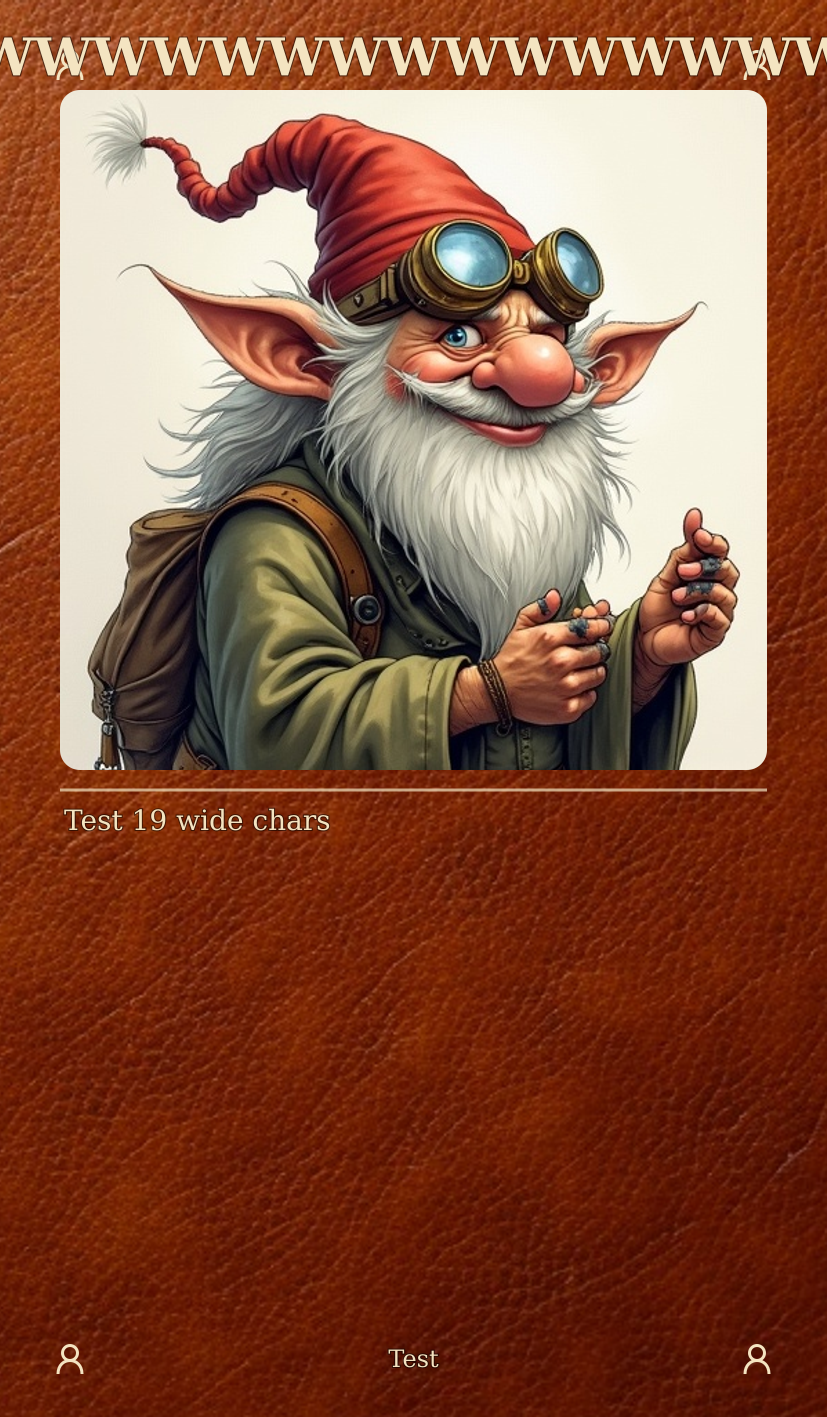
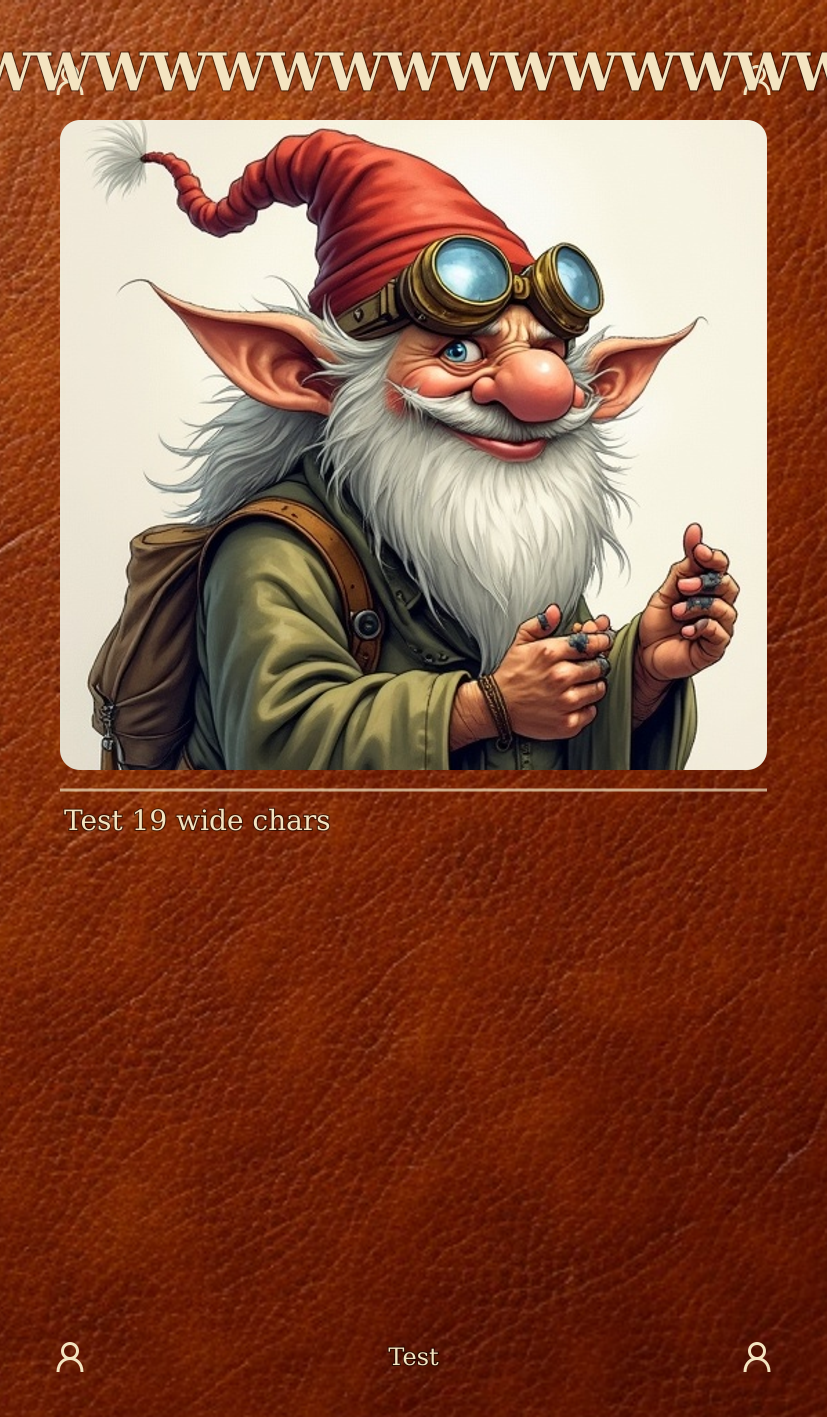
Refactor layout with explicit coordinate system
Added clear layout specification at top of file with:
- All dimensions and positions as named constants
- Explicit safe margins (B=40px on all four sides)
- Documented vertical regions: header, portrait, text, footer
- Derived positions calculated from these constants

Layout regions:
- Header: y ∈ [40, 120] - 80px for title + icons
- Portrait: y ∈ [120, 770] - 650px for character image
- Text: y ∈ [770, 1337] - description area
- Footer: y ∈ [1337, 1377] - 40px for location + icons

All positioning code now uses these constants instead of
scattered magic numbers, making the layout easier to
understand and modify.

diff --git a/packages/card-generator/scripts/generate-all-variants.js b/packages/card-generator/scripts/generate-all-variants.js
@@ -1,15 +1,81 @@
 #!/usr/bin/env node
 /**
  * Generate layout variants for comparison
- * NEW DEFAULTS: Full frame, 40px border, icons in header
+ *
+ * LAYOUT SPECIFICATION
+ * ====================
+ * Card dimensions: W=827px, H=1417px (tarot size at 300dpi)
+ *
+ * MARGINS (B=40px on all four sides for print safety):
+ *   Safe area: x ∈ [B, W-B] = [40, 787], y ∈ [B, H-B] = [40, 1377]
+ *
+ * VERTICAL REGIONS (top to bottom, all within safe area):
+ *   Header:   y ∈ [B, B+HEADER_H]                    - title + corner icons
+ *   Portrait: y ∈ [B+HEADER_H, B+HEADER_H+PORTRAIT_H] - character image
+ *   Text:     y ∈ [portrait_bottom, footer_top]      - description
+ *   Footer:   y ∈ [H-B-FOOTER_H, H-B]                - location + corner icons
+ *
+ * CONSTRAINTS:
+ *   C1: Title must fit between header icons (width ≤ TITLE_MAX_W)
+ *   C2: 2-line title (75px) must fit in header region
+ *   C3: All content must stay within safe area (B margin from edges)
+ *   C4: Icons vertically centered in their regions
+ *
+ * DERIVED MEASUREMENTS:
+ *   - Icon size: 36px (24px base scaled 1.5x)
+ *   - 2-line title at 34px: 2 * 34 * 1.1 = 75px height
+ *   - Header needs: max(icon_h, title_h) + padding ≈ 80px
  */
 
 const fs = require('fs');
 const path = require('path');
 const sharp = require('sharp');
 
-const W = 827, H = 1417;
-const B = 40; // Border width
+// =============================================================================
+// LAYOUT CONSTANTS - All positioning derives from these values
+// =============================================================================
+const W = 827, H = 1417;           // Card dimensions
+const B = 40;                       // Margin on ALL four sides
+
+// Vertical region heights (content heights, not including margins)
+const HEADER_CONTENT_H = 80;        // Space for title + icons (fits 2-line title)
+const PORTRAIT_H = 650;             // Portrait image height (reduced to fit margins)
+const FOOTER_H = 40;                // Footer text + icons
+
+// Derived vertical positions (all respect top margin B)
+const HEADER_TOP = B;                                    // 40
+const HEADER_BOTTOM = B + HEADER_CONTENT_H;              // 120
+const PORTRAIT_TOP = HEADER_BOTTOM;                      // 120
+const PORTRAIT_BOTTOM = PORTRAIT_TOP + PORTRAIT_H;       // 770
+const TEXT_TOP = PORTRAIT_BOTTOM;                        // 770
+const FOOTER_TOP = H - B - FOOTER_H;                     // 1337
+const FOOTER_BOTTOM = H - B;                             // 1377
+const TEXT_BOTTOM = FOOTER_TOP;                          // 1337
+
+// Horizontal positions
+const CONTENT_LEFT = B;                                  // 40
+const CONTENT_RIGHT = W - B;                             // 787
+const CONTENT_W = W - 2 * B;                             // 747
+
+// Icon dimensions and positions
+const ICON_SIZE = 36;
+const ICON_MARGIN = 12;                                  // Margin from content edge
+const ICON_LEFT_X = CONTENT_LEFT + ICON_MARGIN;          // 52
+const ICON_RIGHT_X = CONTENT_RIGHT - ICON_SIZE - ICON_MARGIN;  // 739
+
+// Title constraints
+const TITLE_MAX_W = CONTENT_W - 2 * (ICON_SIZE + ICON_MARGIN + 10);  // ~611px
+// Measured character limits (worst-case W chars): 52px≤14, 42px≤17, 34px≤21, 28px≤26
+
+// Portrait positioning (with padding to be narrower than text)
+const PORTRAIT_PADDING = 20;
+const PORTRAIT_W = CONTENT_W - 2 * PORTRAIT_PADDING;     // 707
+const PORTRAIT_X = CONTENT_LEFT + PORTRAIT_PADDING;      // 60
+
+// =============================================================================
+// END LAYOUT CONSTANTS
+// =============================================================================
+
 const NPC_COLORS = { accent: '#8B4513', light: '#D2691E' };
 
 // Category-specific icons (simple SVG paths for different card types)
@@ -103,14 +169,9 @@ async function render(svg, portraitPath, outputPath, pX, pY, pW, pH, texturePath
 }
 
 // Generate SVG overlay for texture backgrounds
-// Options for text area: tint (none, dark, leather), border (none, line, decorative)
-// Options for portrait: border (none, line), corners (square, rounded)
+// Uses layout constants defined at top of file
 function textureOverlaySvg(opts = {}) {
-  // B is the uniform margin on all four sides (print safety)
-  const headerH = opts.headerH || 90;
-  const portraitH = opts.portraitH || 680;
   const textColor = '#f4e4c1';
-  const footerH = opts.footerH || 36;
   const showFooter = opts.showFooter !== false;
   const showIcons = opts.showIcons !== false;
   const fontFamily = opts.fontFamily || 'serif';
@@ -118,18 +179,11 @@ function textureOverlaySvg(opts = {}) {
   const bodySize = opts.bodySize || 28;
   const divider = opts.divider !== false;
   const charsPerLine = opts.charsPerLine || 38;
+  const cornerRadius = opts.cornerRadius || 20;
 
   // Custom card content and icon support
   const cardData = opts.cardData || CARD;
   const iconSvg = opts.iconSvg || ICON_SVG;
-
-  // Title: use SVG textLength to constrain width - no estimation needed
-  // Available width between header icons
-  const titleMaxWidth = W - 2 * (B + 48 + 10); // ~631px
-
-  // For 2-line titles: only 34px and 28px fit in 90px header
-  // 2 lines @ 34px = ~75px, 2 lines @ 28px = ~62px
-  const maxTwoLineSize = 34;
 
   // Find best 2-line split (minimize the longer line's length)
   const bestSplit = (name) => {
@@ -191,55 +245,53 @@ function textureOverlaySvg(opts = {}) {
   // Portrait styling
   const portraitBorder = opts.portraitBorder || 'none';  // 'none', 'line'
   const portraitCorners = opts.portraitCorners || 'square';  // 'square', 'rounded'
-  const cornerRadius = opts.cornerRadius || 20;
 
-  const textAreaTop = headerH + portraitH;
-  const textAreaH = H - headerH - portraitH - B - (showFooter ? footerH : 0);
-  const portraitPadding = opts.portraitPadding || 20;
-  const portraitW = W - B * 2 - portraitPadding * 2;
-  const portraitX = B + portraitPadding;
+  // Use layout constants (defined at top of file)
+  const textAreaH = TEXT_BOTTOM - TEXT_TOP - (showFooter ? FOOTER_H : 0);
 
-  // Header icons positioned with top margin B
-  const iconY = B + (headerH - B - 36) / 2; // Centered in header area below top margin
+  // Header icons: vertically centered in header region [HEADER_TOP, HEADER_BOTTOM]
+  const headerIconY = HEADER_TOP + (HEADER_CONTENT_H - ICON_SIZE) / 2;
   const icons = showIcons ? `
-    <g transform="translate(${B + 12}, ${iconY})">${iconSvg}</g>
-    <g transform="translate(${W - B - 48}, ${iconY})">${iconSvg}</g>
+    <g transform="translate(${ICON_LEFT_X}, ${headerIconY})">${iconSvg}</g>
+    <g transform="translate(${ICON_RIGHT_X}, ${headerIconY})">${iconSvg}</g>
   ` : '';
 
   const textStroke = 'stroke="rgba(0,0,0,0.5)" stroke-width="2" paint-order="stroke"';
 
-  // Footer centered in footer area (footerH = 36, fontSize = 24)
-  const footerY = H - B - footerH/2 + 8; // baseline offset for vertical centering
+  // Footer: vertically centered in footer region [FOOTER_TOP, FOOTER_BOTTOM]
+  const footerCenterY = FOOTER_TOP + FOOTER_H / 2;
+  const footerTextY = footerCenterY + 8; // baseline offset
   const footerSvg = showFooter ? `
-    <text x="${W/2}" y="${footerY}" font-family="${fontFamily}" font-size="24" fill="${textColor}" text-anchor="middle" ${textStroke}>${esc(displayFooter)}</text>
+    <text x="${W/2}" y="${footerTextY}" font-family="${fontFamily}" font-size="24" fill="${textColor}" text-anchor="middle" ${textStroke}>${esc(displayFooter)}</text>
   ` : '';
 
-  // Move divider down if there's a text border to avoid intersection
-  const dividerY = textAreaTop + (textBorder !== 'none' ? 20 : 10);
+  // Divider line at top of text area
+  const dividerY = TEXT_TOP + (textBorder !== 'none' ? 20 : 10);
   const dividerSvg = divider ? `
-    <line x1="${B + 20}" y1="${dividerY}" x2="${W - B - 20}" y2="${dividerY}" stroke="${textColor}" stroke-width="3" opacity="0.7"/>
+    <line x1="${CONTENT_LEFT + 20}" y1="${dividerY}" x2="${CONTENT_RIGHT - 20}" y2="${dividerY}" stroke="${textColor}" stroke-width="3" opacity="0.7"/>
   ` : '';
 
   const lines = wrap(esc(cardData.desc), charsPerLine);
   const lineHeight = 36;
-  const textStartY = textAreaTop + 44 + (divider ? 16 : 0);
+  const textStartY = TEXT_TOP + 44 + (divider ? 16 : 0);
 
   // Text area background based on tint option
+  const textBgH = TEXT_BOTTOM - TEXT_TOP + (showFooter ? FOOTER_H : 0);
   let textBgSvg = '';
   if (textTint === 'dark') {
-    textBgSvg = `<rect x="${B}" y="${textAreaTop}" width="${W - B*2}" height="${textAreaH + (showFooter ? footerH : 0)}" fill="rgba(0,0,0,0.35)"/>`;
+    textBgSvg = `<rect x="${CONTENT_LEFT}" y="${TEXT_TOP}" width="${CONTENT_W}" height="${textBgH}" fill="rgba(0,0,0,0.35)"/>`;
   } else if (textTint === 'leather') {
-    textBgSvg = `<rect x="${B}" y="${textAreaTop}" width="${W - B*2}" height="${textAreaH + (showFooter ? footerH : 0)}" fill="rgba(90,50,20,0.5)"/>`;
+    textBgSvg = `<rect x="${CONTENT_LEFT}" y="${TEXT_TOP}" width="${CONTENT_W}" height="${textBgH}" fill="rgba(90,50,20,0.5)"/>`;
   }
   // 'none' = no background
 
   // Text area border
   let textBorderSvg = '';
   if (textBorder === 'line') {
-    textBorderSvg = `<rect x="${B}" y="${textAreaTop}" width="${W - B*2}" height="${textAreaH + (showFooter ? footerH : 0)}" fill="none" stroke="${textColor}" stroke-width="2" opacity="0.5"/>`;
+    textBorderSvg = `<rect x="${CONTENT_LEFT}" y="${TEXT_TOP}" width="${CONTENT_W}" height="${textBgH}" fill="none" stroke="${textColor}" stroke-width="2" opacity="0.5"/>`;
   } else if (textBorder === 'decorative') {
     // Decorative corners
-    const tbX = B, tbY = textAreaTop, tbW = W - B*2, tbH = textAreaH + (showFooter ? footerH : 0);
+    const tbX = CONTENT_LEFT, tbY = TEXT_TOP, tbW = CONTENT_W, tbH = textBgH;
     const cs = 15; // corner size
     textBorderSvg = `
       <path d="M${tbX+cs},${tbY} L${tbX},${tbY} L${tbX},${tbY+cs}" fill="none" stroke="${textColor}" stroke-width="2"/>
@@ -248,46 +300,42 @@ function textureOverlaySvg(opts = {}) {
       <path d="M${tbX+tbW},${tbY+tbH-cs} L${tbX+tbW},${tbY+tbH} L${tbX+tbW-cs},${tbY+tbH}" fill="none" stroke="${textColor}" stroke-width="2"/>
     `;
   } else if (textBorder === 'icons') {
-    // Category icons centered vertically in footer area
-    const tbX = B, tbW = W - B*2;
-    const iconMargin = 12; // horizontal margin from edges
-    const iconWidth = 36; // icon scaled size
-    const footerTop = H - B - footerH;
-    const iconY = footerTop + (footerH - iconWidth) / 2; // center icons in footer area
+    // Footer icons: centered in footer region [FOOTER_TOP, FOOTER_BOTTOM]
+    const footerIconY = FOOTER_TOP + (FOOTER_H - ICON_SIZE) / 2;
     textBorderSvg = `
-      <g transform="translate(${tbX + iconMargin}, ${iconY})">${iconSvg}</g>
-      <g transform="translate(${tbX + tbW - iconWidth - iconMargin}, ${iconY})">${iconSvg}</g>
+      <g transform="translate(${ICON_LEFT_X}, ${footerIconY})">${iconSvg}</g>
+      <g transform="translate(${ICON_RIGHT_X}, ${footerIconY})">${iconSvg}</g>
     `;
   }
 
   // Portrait border - draw OUTSIDE the portrait area with clear offset
   let portraitBorderSvg = '';
   if (portraitBorder === 'line') {
-    const borderOffset = 4; // Larger offset so border is clearly visible
+    const borderOffset = 4;
     const strokeW = 4;
     if (portraitCorners === 'rounded') {
-      portraitBorderSvg = `<rect x="${portraitX - borderOffset}" y="${headerH - borderOffset}" width="${portraitW + borderOffset*2}" height="${portraitH + borderOffset*2}" rx="${cornerRadius + borderOffset}" fill="none" stroke="${textColor}" stroke-width="${strokeW}"/>`;
+      portraitBorderSvg = `<rect x="${PORTRAIT_X - borderOffset}" y="${PORTRAIT_TOP - borderOffset}" width="${PORTRAIT_W + borderOffset*2}" height="${PORTRAIT_H + borderOffset*2}" rx="${cornerRadius + borderOffset}" fill="none" stroke="${textColor}" stroke-width="${strokeW}"/>`;
     } else {
-      portraitBorderSvg = `<rect x="${portraitX - borderOffset}" y="${headerH - borderOffset}" width="${portraitW + borderOffset*2}" height="${portraitH + borderOffset*2}" fill="none" stroke="${textColor}" stroke-width="${strokeW}"/>`;
+      portraitBorderSvg = `<rect x="${PORTRAIT_X - borderOffset}" y="${PORTRAIT_TOP - borderOffset}" width="${PORTRAIT_W + borderOffset*2}" height="${PORTRAIT_H + borderOffset*2}" fill="none" stroke="${textColor}" stroke-width="${strokeW}"/>`;
     }
   }
 
-  // Clip path for rounded portrait (will be used by render function)
+  // Clip path for rounded portrait
   let defs = '';
   if (portraitCorners === 'rounded') {
     defs = `<defs>
       <clipPath id="portraitClip">
-        <rect x="${portraitX}" y="${headerH}" width="${portraitW}" height="${portraitH}" rx="${cornerRadius}"/>
+        <rect x="${PORTRAIT_X}" y="${PORTRAIT_TOP}" width="${PORTRAIT_W}" height="${PORTRAIT_H}" rx="${cornerRadius}"/>
       </clipPath>
     </defs>`;
   }
 
-  // Generate title SVG (1 or 2 lines, vertically centered in header safe area)
-  // Header safe area: y = B to y = headerH (respects top margin)
+  // Generate title SVG (1 or 2 lines, vertically centered in header region)
+  // Header region: y ∈ [HEADER_TOP, HEADER_BOTTOM]
   const titleLineHeight = autoTitleSize * 1.1;
   const titleBlockHeight = titleLines.length * titleLineHeight;
-  const headerCenter = (B + headerH) / 2; // Center of safe header area
-  const titleStartY = headerCenter - titleBlockHeight/2 + autoTitleSize * 0.75;
+  const headerCenterY = HEADER_TOP + HEADER_CONTENT_H / 2;
+  const titleStartY = headerCenterY - titleBlockHeight/2 + autoTitleSize * 0.75;
   const titleSvg = titleLines.map((line, i) =>
     `<text x="${W/2}" y="${titleStartY + i * titleLineHeight}" font-family="${fontFamily}" font-size="${autoTitleSize}" font-weight="bold" fill="${textColor}" text-anchor="middle" ${textStroke}>${esc(line)}</text>`
   ).join('\n    ');
@@ -300,27 +348,23 @@ function textureOverlaySvg(opts = {}) {
     ${icons}
     ${titleSvg}
     ${dividerSvg}
-    ${lines.map((l, i) => `<text x="${B + 24}" y="${textStartY + i * lineHeight}" font-family="${fontFamily}" font-size="${bodySize}" fill="${textColor}" ${textStroke}>${l}</text>`).join('')}
+    ${lines.map((l, i) => `<text x="${CONTENT_LEFT + 24}" y="${textStartY + i * lineHeight}" font-family="${fontFamily}" font-size="${bodySize}" fill="${textColor}" ${textStroke}>${l}</text>`).join('')}
     ${footerSvg}
   </svg>`;
 }
 
-// Render with rounded portrait corners
+// Render card with texture background and portrait
+// Uses layout constants for positioning
 async function renderTextureCard(svg, portraitPath, outputPath, texturePath, opts = {}) {
-  const headerH = opts.headerH || 90;
-  const portraitH = opts.portraitH || 680;
-  const portraitPadding = opts.portraitPadding || 20; // Inset from border edges
-  const portraitW = W - B * 2 - portraitPadding * 2;
-  const portraitX = B + portraitPadding;
   const cornerRadius = opts.cornerRadius || 20;
   const roundedPortrait = opts.roundedPortrait || false;
 
-  let portrait = await sharp(portraitPath).resize(portraitW, portraitH, { fit: 'cover' });
+  let portrait = await sharp(portraitPath).resize(PORTRAIT_W, PORTRAIT_H, { fit: 'cover' });
 
   if (roundedPortrait) {
     // Create rounded corners mask
-    const mask = Buffer.from(`<svg width="${portraitW}" height="${portraitH}">
-      <rect width="${portraitW}" height="${portraitH}" rx="${cornerRadius}" fill="white"/>
+    const mask = Buffer.from(`<svg width="${PORTRAIT_W}" height="${PORTRAIT_H}">
+      <rect width="${PORTRAIT_W}" height="${PORTRAIT_H}" rx="${cornerRadius}" fill="white"/>
     </svg>`);
     const maskBuffer = await sharp(mask).png().toBuffer();
     portrait = await portrait
@@ -336,7 +380,7 @@ async function renderTextureCard(svg, portraitPath, outputPath, texturePath, opt
 
   await sharp(texture)
     .composite([
-      { input: portrait, top: headerH, left: portraitX },
+      { input: portrait, top: PORTRAIT_TOP, left: PORTRAIT_X },
       { input: overlay, top: 0, left: 0 }
     ])
     .png()
